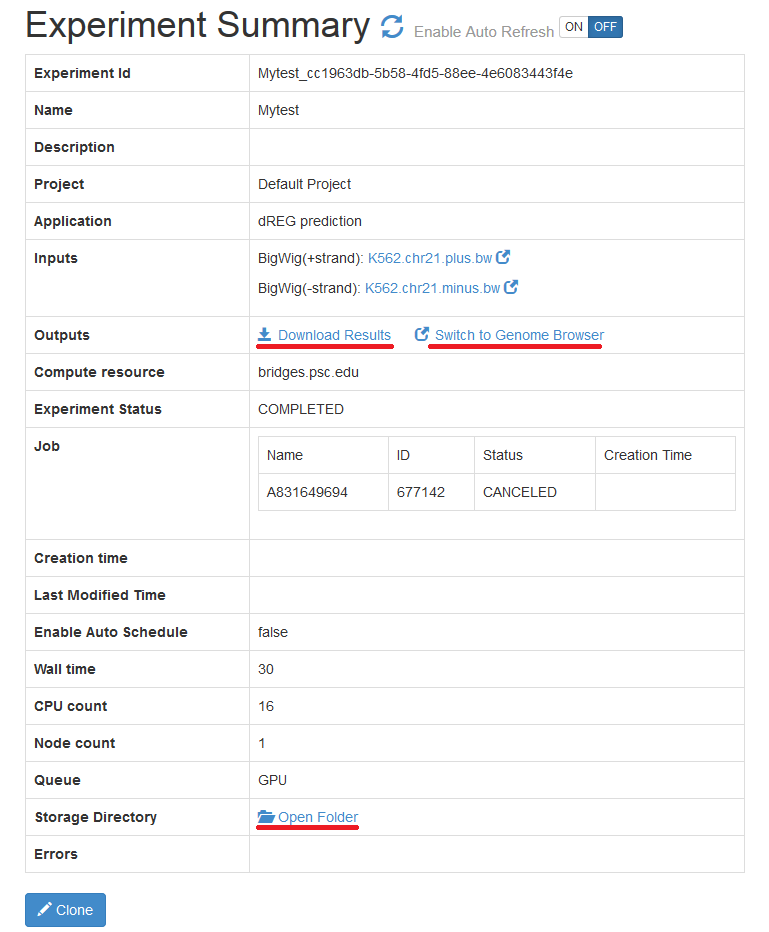
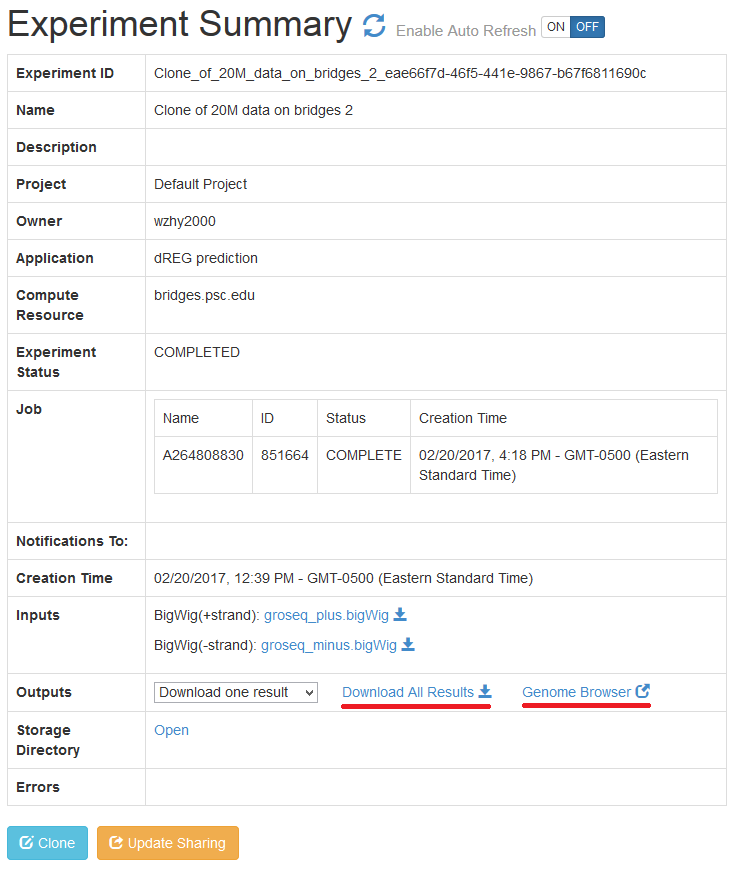
Update on the document page

diff --git a/public/themes/dreg/partials/doc.blade.php b/public/themes/dreg/partials/doc.blade.php
@@ -36,14 +36,14 @@ Select the menu 'Start dREG' below the dREG logo to create an data analysis for 
 
           <p class="description" style="padding:16px">
          4)&nbsp;&nbsp;<b>Select bigWig files</b><br>
-Select bigWig files representing PRO-seq, GRO-seq, or ChRO-seq signal on the plus and minus strand.  
+Select bigWig files representing PRO-seq, GRO-seq, or ChRO-seq signal on the plus and minus strand. Please notice that two GPU resources are available now, currently it is easier to get the computation resources on <A href="http://comet.sdsc.xsede.org/">Comet.sdsc.xsede.org</A> than <A href="https://www.psc.edu/index.php/bridges">Bridges.psc.edu</A>. 
           </p>
 
 <div style=" display: flex;justify-content: center"><img style="align-self: center;width:70%" alt="dREG experiment create" src="{{ URL::to('/') }}/themes/{{Session::get('theme')}}/assets/img/dreg.create.exp2.png" ></img></div>
 
           <p class="description" style="padding:16px">
          5)&nbsp;&nbsp;<b>Submit the job</b><br>
-Click the 'save and launch' button.  BigWig file are transferred to the XSEDE server and a GPU queue is scheduled to run dREG. After submitting, the user can check the status in the next web page, as shown below. Depend on the queue status, the job maybe wait for a long time to start prediction.  Once started, it will only take 1-4 hours to complete.</p>
+Click the 'save and launch' button.  BigWig file are transferred to the XSEDE server and a GPU queue is scheduled to run dREG. After submitting, the user can check the status in the next web page, as shown below. Depend on the queue status, the job maybe wait for a long time to start prediction. Once started, it will only take 1-4 hours to complete.</p>
 
 
           <p class="description" style="padding:16px">
@@ -54,13 +54,19 @@ The user can check the status of their 'experiment' by clicking the menu 'Saved 
 
           <p class="description" style="padding:16px">
          7)&nbsp;&nbsp;<b>Check the results</b><br>
-Once a job is completed, the user can click <B>'Download Results'</B> link in the experiment summary page to download a compressed file described in the <a href="#output" role="tab" data-toggle="tab">'output'</A> sheet in this page. Or the user can check the results in the Genome Browser by clicking <b>'Switch to Genome Browser'</B> link.
+Once a job is completed, the user can click <B>'Download All Results'</B> link in the experiment summary page to download a compressed file described in the <a href="#output" role="tab" data-toggle="tab">'output'</A> sheet in this page, or the user can download any single file from the drop-down list. 
           
 </p>
 <div style=" display: flex;justify-content: center"><img style="align-self: center;width:70%" alt="dREG experiment summary" src="{{ URL::to('/') }}/themes/{{Session::get('theme')}}/assets/img/dreg.exp.summary.png"></img></div>
 
          <p class="description" style="padding:16px">
-         8)&nbsp;&nbsp;<b>Check the storage</b><br>
+         8)&nbsp;&nbsp;<b>Switch to Genome Browser</b><br>
+The convenient tool ptovided by the gateway is the user can check the results in the Genome Browser by clicking <b>'Genome Browser'</B> link. </p>
+
+<div style=" display: flex;justify-content: center"><img style="align-self: center;width:70%" alt="dREG experiment summary" src="{{ URL::to('/') }}/themes/{{Session::get('theme')}}/assets/img/dreg.gbview.png"></img></div>
+
+          <p class="description" style="padding:16px">
+         9)&nbsp;&nbsp;<b>Check the storage</b><br>
 the user can click <b>'Open Folder'</b> link in the experiment summary page to check the storage for the current job or click the menu 'Storage' under the dREG logo to check the folders and files for all jobs(experiments). The following figure shows the data files in the job's folder, including two bigWig files, one result in bedgraph format, two outputs of job scheduler on GPU nodes.</p>
 
 <div style=" display: flex;justify-content: center"><img style="align-self: center;width:70%" alt="dREG experiment summary" src="{{ URL::to('/') }}/themes/{{Session::get('theme')}}/assets/img/dreg.exp.folder.png"></img></div>
